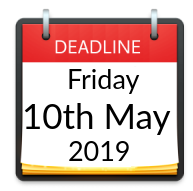
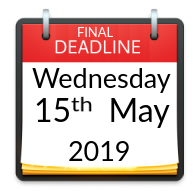
updated index

diff --git a/index.html b/index.html
@@ -127,7 +127,7 @@ Examples of previous CIBB edition post-publications:
 <p>
 <img src="https://raw.githubusercontent.com/davidechicco/cibb2019specialsession/master/deadline2019.png" align="right" width="150">
 
-<font color="red">NEW</font> extended paper submission deadline: <font color="red"><strong>Friday 10th May 2019 </strong></font>   </br>
+<font color="red">NEW</font> extended paper submission deadline: <font color="red"><strong>Wednesday 15th May 2019 (FINAL STRICT DEADLINE)</strong></font>   </br>
 
 Acceptance/rejection notification: Monday 10th June 2019  </br>
 
